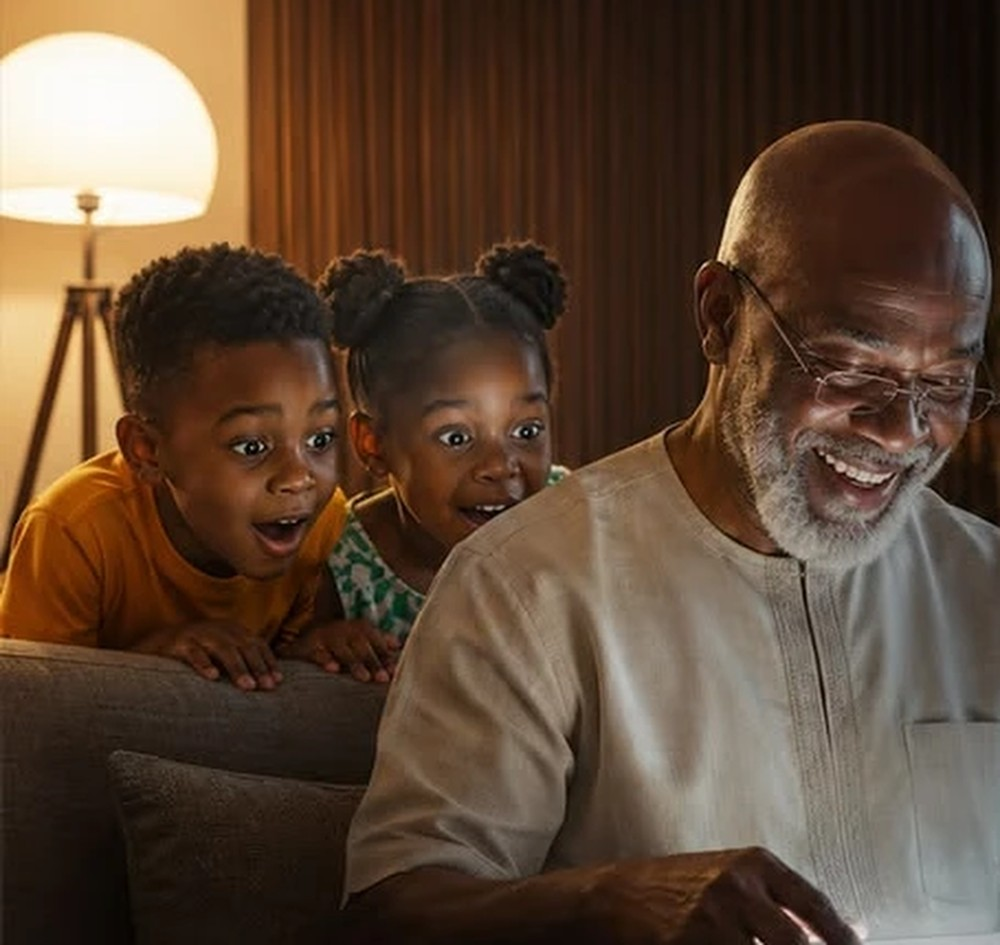
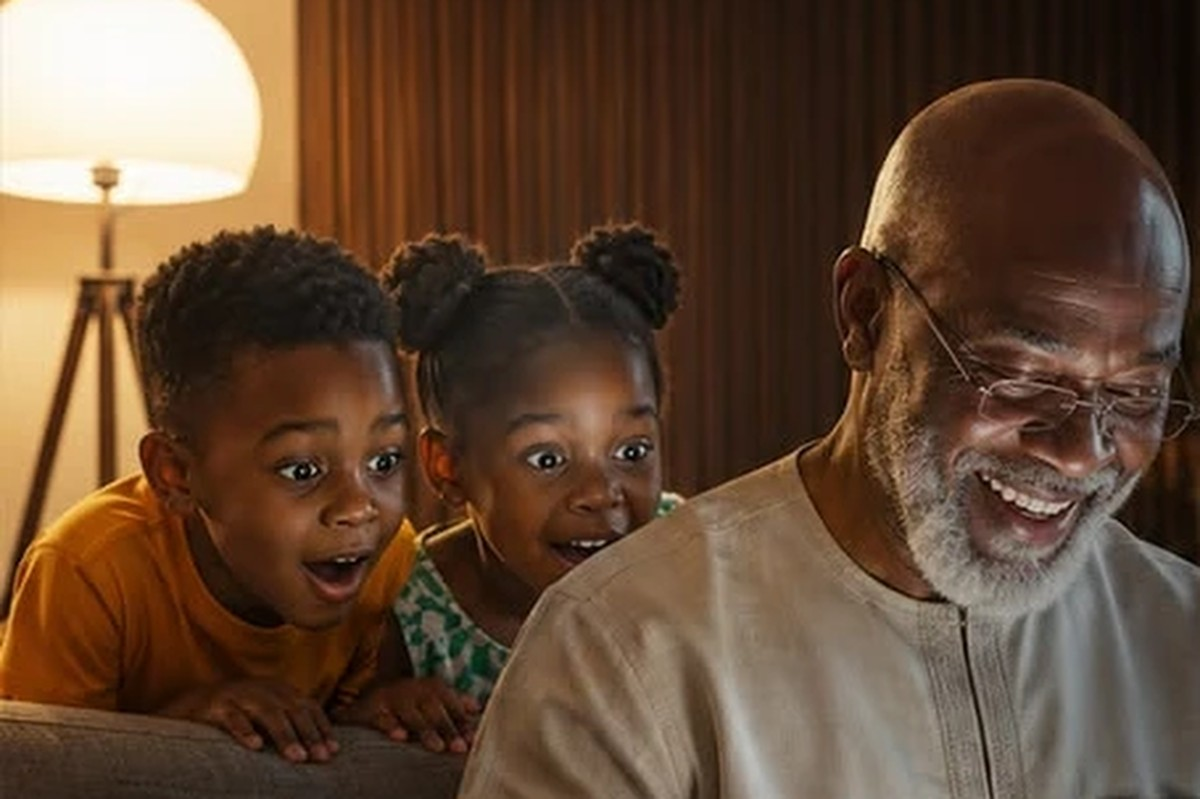
Zoom out homepage photo panels: 3:2 shape, wider family crop, smaller headlines

diff --git a/static/css/style.css b/static/css/style.css
@@ -926,3 +926,12 @@ body { line-height: 1.6; }
   .feature-banner-body { padding: 1.8rem 1.4rem; }
 }
 
+
+/* Photo panels: zoomed out (wider 3:2 shape shows more of each photo, lighter headlines) */
+.home-panel { aspect-ratio: 3 / 2; }
+.home-panel-title { font-size: clamp(1rem, 1.35vw, 1.25rem); }
+.home-panel-body { padding: 1.2rem 1.3rem 1.3rem; gap: .5rem; }
+.home-panel-link { font-size: .85rem; }
+.home-panel-shade { background: linear-gradient(180deg, rgba(0, 0, 0, 0) 50%, rgba(0, 0, 0, .3) 70%, rgba(0, 0, 0, .75) 100%); }
+@media (max-width: 991.98px) { .home-panels .home-panel:last-child { aspect-ratio: 3 / 1.4; } }
+@media (max-width: 575.98px) { .home-panels .home-panel:last-child { aspect-ratio: 3 / 2; } }

diff --git a/templates/base.html b/templates/base.html
@@ -14,7 +14,7 @@
   <link href="https://fonts.googleapis.com/css2?family=Montserrat:wght@600;700;800&family=Rubik:wght@400;500;600&display=swap" rel="stylesheet">
   <link href="https://cdn.jsdelivr.net/npm/bootstrap@5.3.3/dist/css/bootstrap.min.css" rel="stylesheet">
   <link href="https://cdn.jsdelivr.net/npm/bootstrap-icons@1.11.3/font/bootstrap-icons.min.css" rel="stylesheet">
-  <link href="{% static 'css/style.css' %}?v=39" rel="stylesheet">
+  <link href="{% static 'css/style.css' %}?v=40" rel="stylesheet">
   {% block extra_head %}{% endblock %}
 </head>
 <body>
